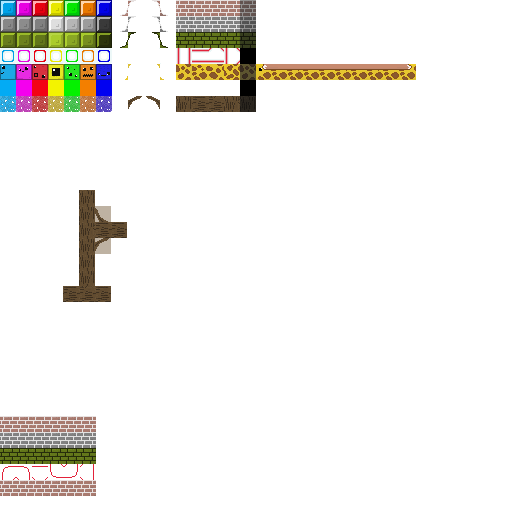
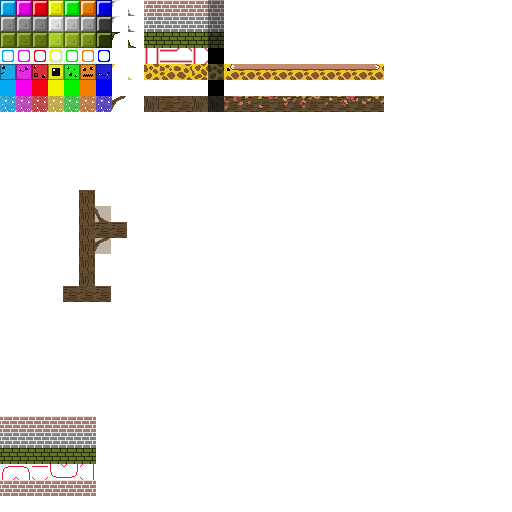
Optimizations

Changed region(s): [[0.2188, 0.0, 0.75, 0.2188], [0.7188, 0.125, 0.8125, 0.1562]]

diff --git a/Assets/Scripts/BackgroundMaker.cs b/Assets/Scripts/BackgroundMaker.cs
@@ -1,4 +1,5 @@
 using System.Collections.Generic;
+using System.Runtime.CompilerServices;
 using UnityEngine;
 
 public static class BackgroundMaker
@@ -13,21 +14,20 @@ public static class BackgroundMaker
 
         WallsMatrix = new byte[17, 21];
 
-        for (int x = 10; x < 17; x++)
-            for (int y = 0; y < 21; y++)
-                WallsMatrix[x, y] = 15;
-
         for (int y = 0; y < 21; y++)
-            WallsMatrix[10, y] = 11;
+            WallsMatrix[10, y] = (byte) Tile.VerticalWall;
 
         for (int x = 11; x < 17; x++)
-            WallsMatrix[x, 16] = 12;
+            WallsMatrix[x, 16] = (byte) Tile.HorizontalWall;
 
         for (int x = 0; x < 17; x++)
-            WallsMatrix[x, 0] = 12;
+            WallsMatrix[x, 0] = (byte) Tile.HorizontalWall;
 
-        WallsMatrix[10, 16] = 14;
-        WallsMatrix[10, 0] = 13;
+        WallsMatrix[10, 16] = (byte) Tile.VerticalToRightWall;
+        WallsMatrix[10, 0] = (byte) Tile.HorizontalToUpWall;
+        WallsMatrix[11, 15] = (byte) Tile.TopLeftCorner;
+        WallsMatrix[11, 17] = (byte) Tile.BottomLeftCorner;
+        WallsMatrix[11, 1] = (byte) Tile.BottomLeftCorner;
     }
 
     public static Texture2D GetBottomTexture(int skinIndex)
@@ -37,12 +37,29 @@ public static class BackgroundMaker
         var tex = new Texture2D(16 * WallsMatrix.GetLength(0), 16, TextureFormat.ARGB32, 0, true);
         tex.filterMode = FilterMode.Point;
 
+        var transparent = new Color(0, 0, 0, 0);
         var atlas = Config.Instance.Atlas;
+        int pos;
+
+        // Background
+
+        pos = (byte) Tile.Background * 16;
+
+        for (int x = 0; x < 17; x++)
+            for (int yy = 0; yy < 16; yy++)
+                for (int xx = 0; xx < 16; xx++)
+                    tex.SetPixel(x * 16 + xx, yy, atlas.GetPixel(pos + xx, atlas.height - 1 - (16 * skinIndex + (15 - yy))));
+
+        // /Background
+        // Walls
+
+        pos = (byte) Tile.HorizontalWall * 16;
 
         for (int x = 0; x < tex.width / 16; x++)
             for (int yy = 0; yy < 16; yy++)
                 for (int xx = 0; xx < 16; xx++)
-                    tex.SetPixel(x * 16 + xx, yy, atlas.GetPixel(xx + 12 * 16, atlas.height - 1 - (16 * skinIndex + (15 - yy))));
+                    tex.SetPixel(x * 16 + xx, yy, atlas.GetPixel(xx + pos, atlas.height - 1 - (16 * skinIndex + (15 - yy))));
+        // /Walls
 
         tex.Apply();
         BottomTextures.Add(skinIndex, tex);
@@ -61,25 +78,87 @@ public static class BackgroundMaker
         var atlas = Config.Instance.Atlas;
         int pos;
 
+        for (int y = 0; y < tex.height; y++)
+            for (int x = 0; x < tex.width; x++)
+                tex.SetPixel(x, y, transparent);
+
+        // Background
+
+        {
+            pos = (byte) Tile.Background * 16;
+
+            void setbg(int x, int y)
+            {
+                for (int yy = 0; yy < 16; yy++)
+                    for (int xx = 0; xx < 16; xx++)
+                        tex.SetPixel(x * 16 + xx, y * 16 + yy, atlas.GetPixel(pos + xx, atlas.height - 1 - (16 * skinIndex + (15 - yy))));
+            }
+
+            for (int y = 0; y < 21; y++)
+                for (int x = 10; x < 17; x++)
+                    setbg(x, y);
+
+            for (int x = 0; x < 17; x++)
+                setbg(x, 0);
+        }
+
+        // /Background
+        // Walls
+
         for (int y = 0; y < tex.height / 16; y++)
             for (int x = 0; x < tex.width / 16; x++)
             {
                 pos = WallsMatrix[x, y] * 16;
 
-                if (pos == 0)
-                    for (int yy = 0; yy < 16; yy++)
-                        for (int xx = 0; xx < 16; xx++)
-                            tex.SetPixel(x * 16 + xx, y * 16 + yy, transparent);
-                else
-                    for (int yy = 0; yy < 16; yy++)
-                        for (int xx = 0; xx < 16; xx++)
-                            tex.SetPixel(x * 16 + xx, y * 16 + yy,
-                                atlas.GetPixel(pos + xx, atlas.height - 1 - (16 * skinIndex + (15 - yy))));
+                if (pos == 0) continue;
+
+                for (int yy = 0; yy < 16; yy++)
+                    for (int xx = 0; xx < 16; xx++)
+                        SetCombineColor(tex, x * 16 + xx, y * 16 + yy,
+                            atlas.GetPixel(pos + xx, atlas.height - 1 - (16 * skinIndex + (15 - yy))));
             }
+
+        // /Walls
+        // Bottom
+
+        pos = (byte) Tile.LongBottomStart * 16;
+
+        for (int yy = 0; yy < 16; yy++)
+            for (int xx = 0; xx < 16 * ((byte) Tile.LongBottomEnd - (byte) Tile.LongBottomStart); xx++)
+                SetCombineColor(tex, xx, yy,
+                    atlas.GetPixel(pos + xx, atlas.height - 1 - (16 * skinIndex + (15 - yy))));
+
+        // /Bottom
 
         tex.Apply();
         Textures.Add(skinIndex, tex);
 
         return tex;
+    }
+
+    [MethodImpl(256)]
+    static void SetCombineColor(Texture2D tex, int x, int y, Color clr)
+    {
+        if (clr.a >.1f) tex.SetPixel(x, y, clr);
+    }
+
+    public enum Tile : byte
+    {
+        CubeG = 0,
+        CubeZR = 1,
+        CubeGR = 2,
+        CubeO = 3,
+        CubeT = 4,
+        CubeZ = 5,
+        CubeI = 6,
+        TopLeftCorner = 7,
+        BottomLeftCorner = 8,
+        VerticalWall = 9,
+        HorizontalWall = 10,
+        HorizontalToUpWall = 11,
+        VerticalToRightWall = 12,
+        Background = 13,
+        LongBottomStart = 14,
+        LongBottomEnd = 29,
     }
 }

diff --git a/Assets/Scripts/GUI/Menu/ChooseLvlMenu.cs b/Assets/Scripts/GUI/Menu/ChooseLvlMenu.cs
@@ -4,7 +4,7 @@ using UnityEngine;
 
 public class ChooseLvlMenu : Menu
 {
-    protected override Type PreviousMenuType => typeof(MainMenu);
+    protected override Type PreviousMenuType => typeof(ChooseModeMenu);
 
     [SerializeField]
     TextMeshProUGUI LevelText = null;
